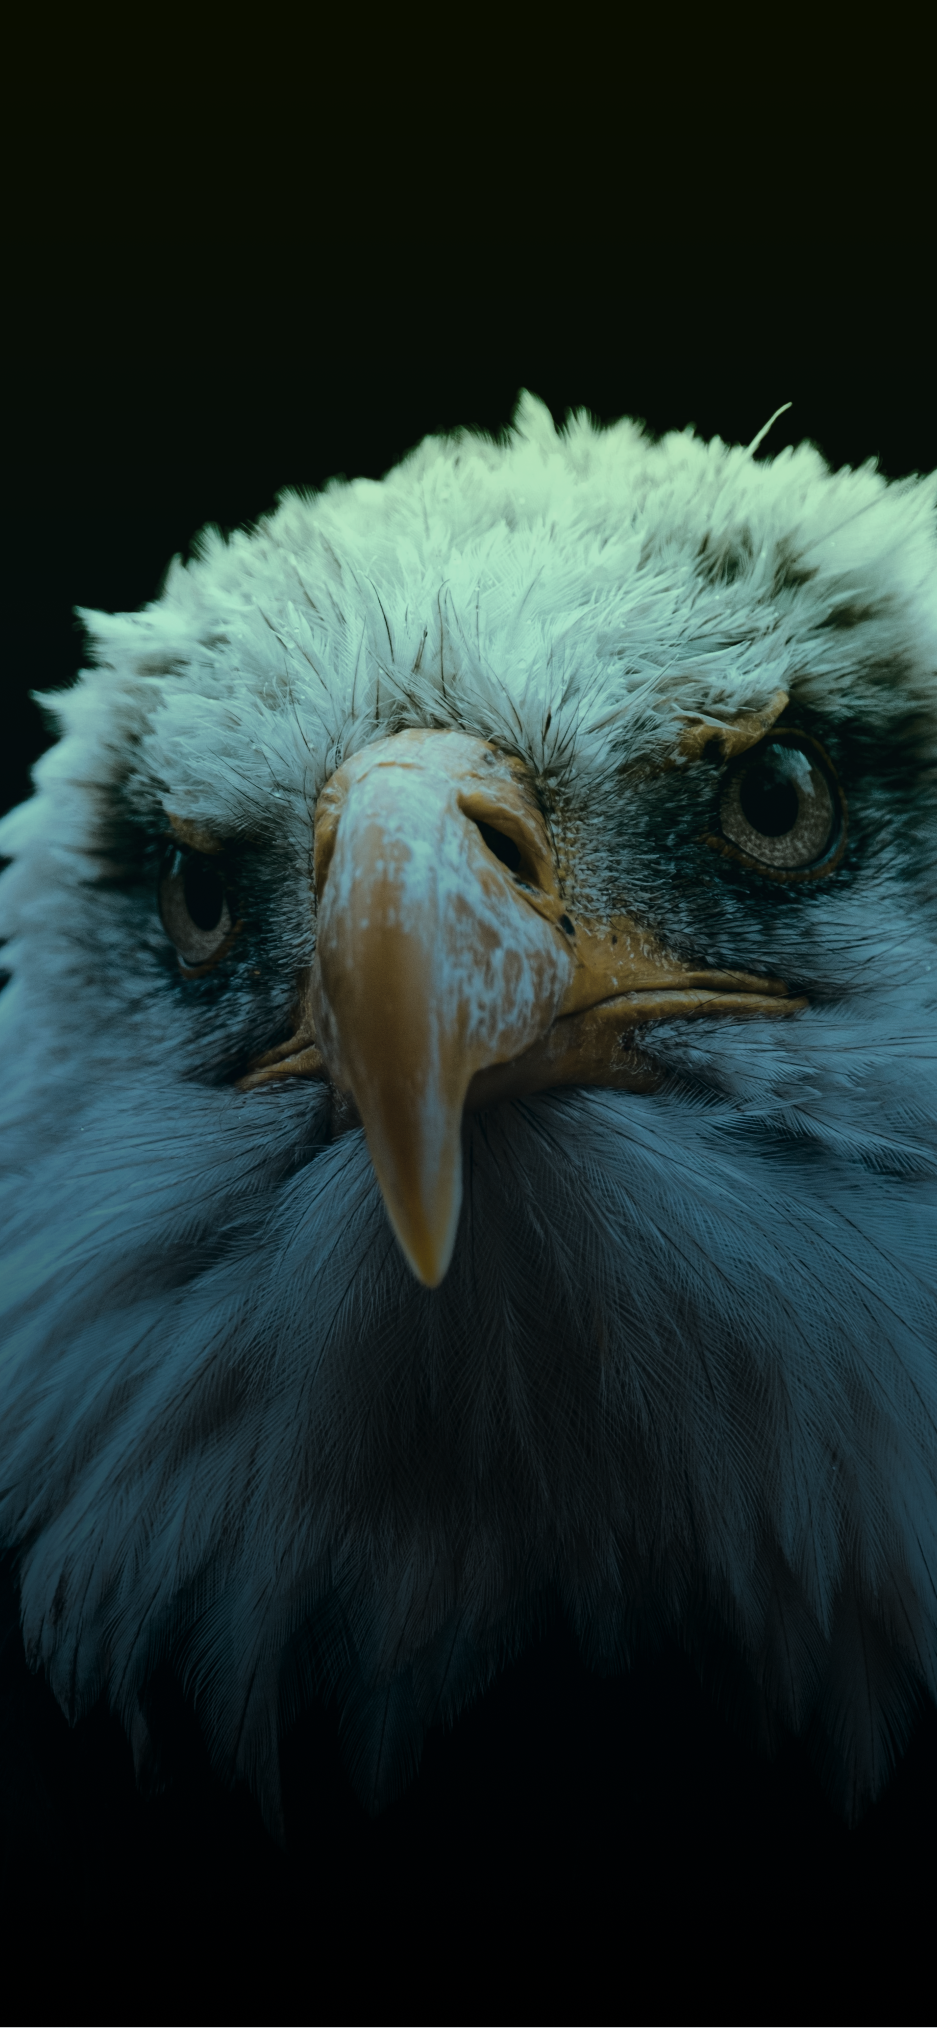
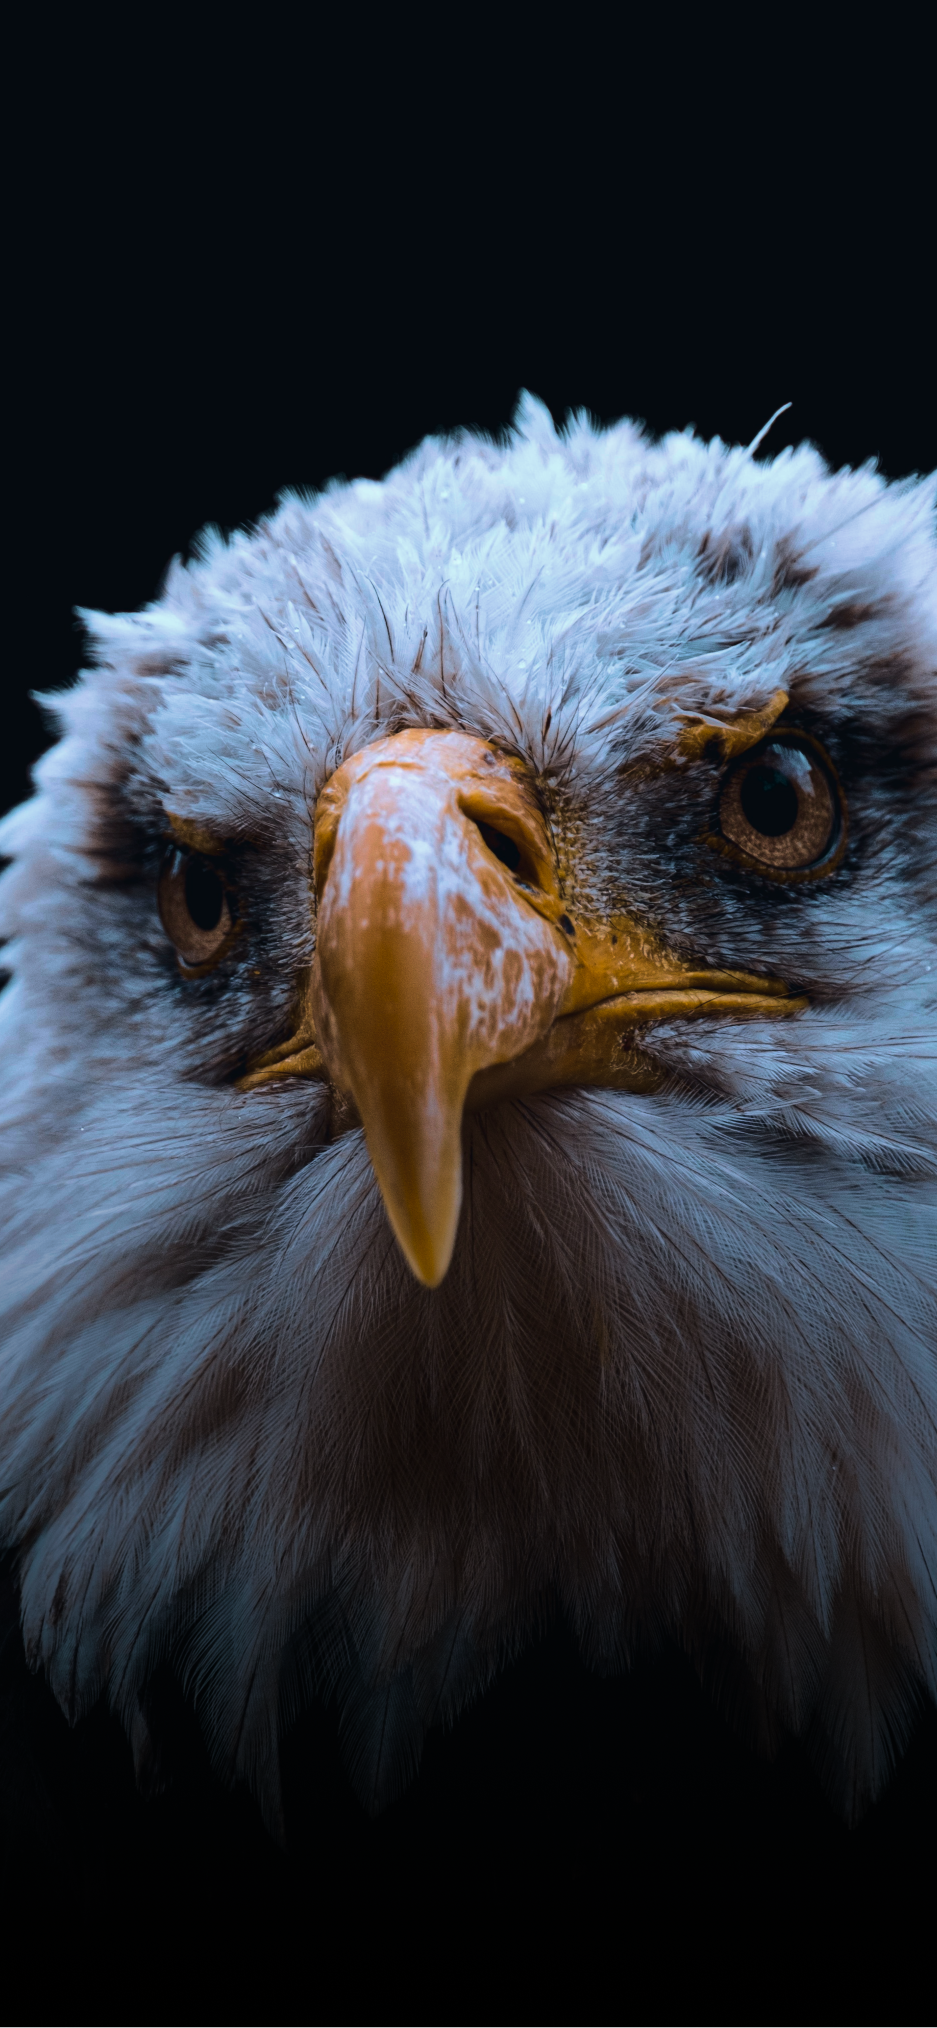
update welcome page

diff --git a/lib/components/welcome.dart b/lib/components/welcome.dart
@@ -32,7 +32,7 @@ class Welcome extends StatelessWidget {
               padding: EdgeInsets.symmetric(horizontal: 100),
               child: Text(
                 textAlign: TextAlign.center,
-                'Simple e objetivo. Edições rápidas práticas',
+                'Simple e objetivo. Edições rápidas e práticas',
                 style: TextStyle(
                   fontSize: 18,
                   color: Colors.white,
